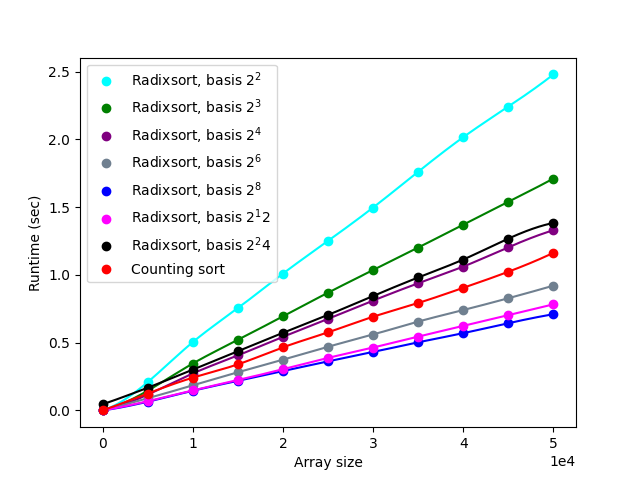
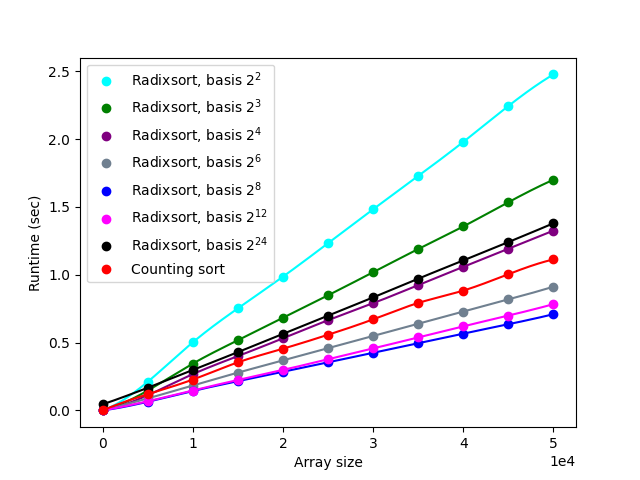
Fixed latex error

diff --git a/wrapper.py b/wrapper.py
@@ -5,13 +5,13 @@ from scipy import interpolate
 from matplotlib import pyplot as plt
 
 figs = (
-    ( # Fig1: Qsort vs random qsort on decreasing samples
-        "decreasing_issue",
-        (["-qrd", "0", "500_000", "50_000", "24"], 
-         "Quicksort (pivot = random)", "g"),
-        (["-qud", "0", "500_000", "50_000", "24"], 
-         "Quicksort (pivot = last)", "r"),
-    ),
+     ( # Fig1: Qsort vs random qsort on decreasing samples
+         "decreasing_issue",
+         (["-qrd", "0", "500_000", "50_000", "24"], 
+          "Quicksort (pivot = random)", "g"),
+         (["-qud", "0", "500_000", "50_000", "24"], 
+          "Quicksort (pivot = last)", "r"),
+     ),
      ( # Fig2: native qsort vs qsortg vs qsort random
          "native_and_polymorphism",
          (["-qr", "0", "50_000_000", "5_000_000", "24"], 
@@ -34,9 +34,9 @@ figs = (
          (["-rx", "0", "50_000_000", "5_000_000", "24", "8"], 
           "Radixsort, basis $2^8$", "blue"),
          (["-rx", "0", "50_000_000", "5_000_000", "24", "12"], 
-          "Radixsort, basis $2^12$", "magenta"),
+          "Radixsort, basis $2^{12}$", "magenta"),
          (["-rx", "0", "50_000_000", "5_000_000", "24", "24"], 
-          "Radixsort, basis $2^24$", "black"),
+          "Radixsort, basis $2^{24}$", "black"),
          (["-cs", "0", "50_000_000", "5_000_000", "24"], 
           "Counting sort", "red"),
      ),
